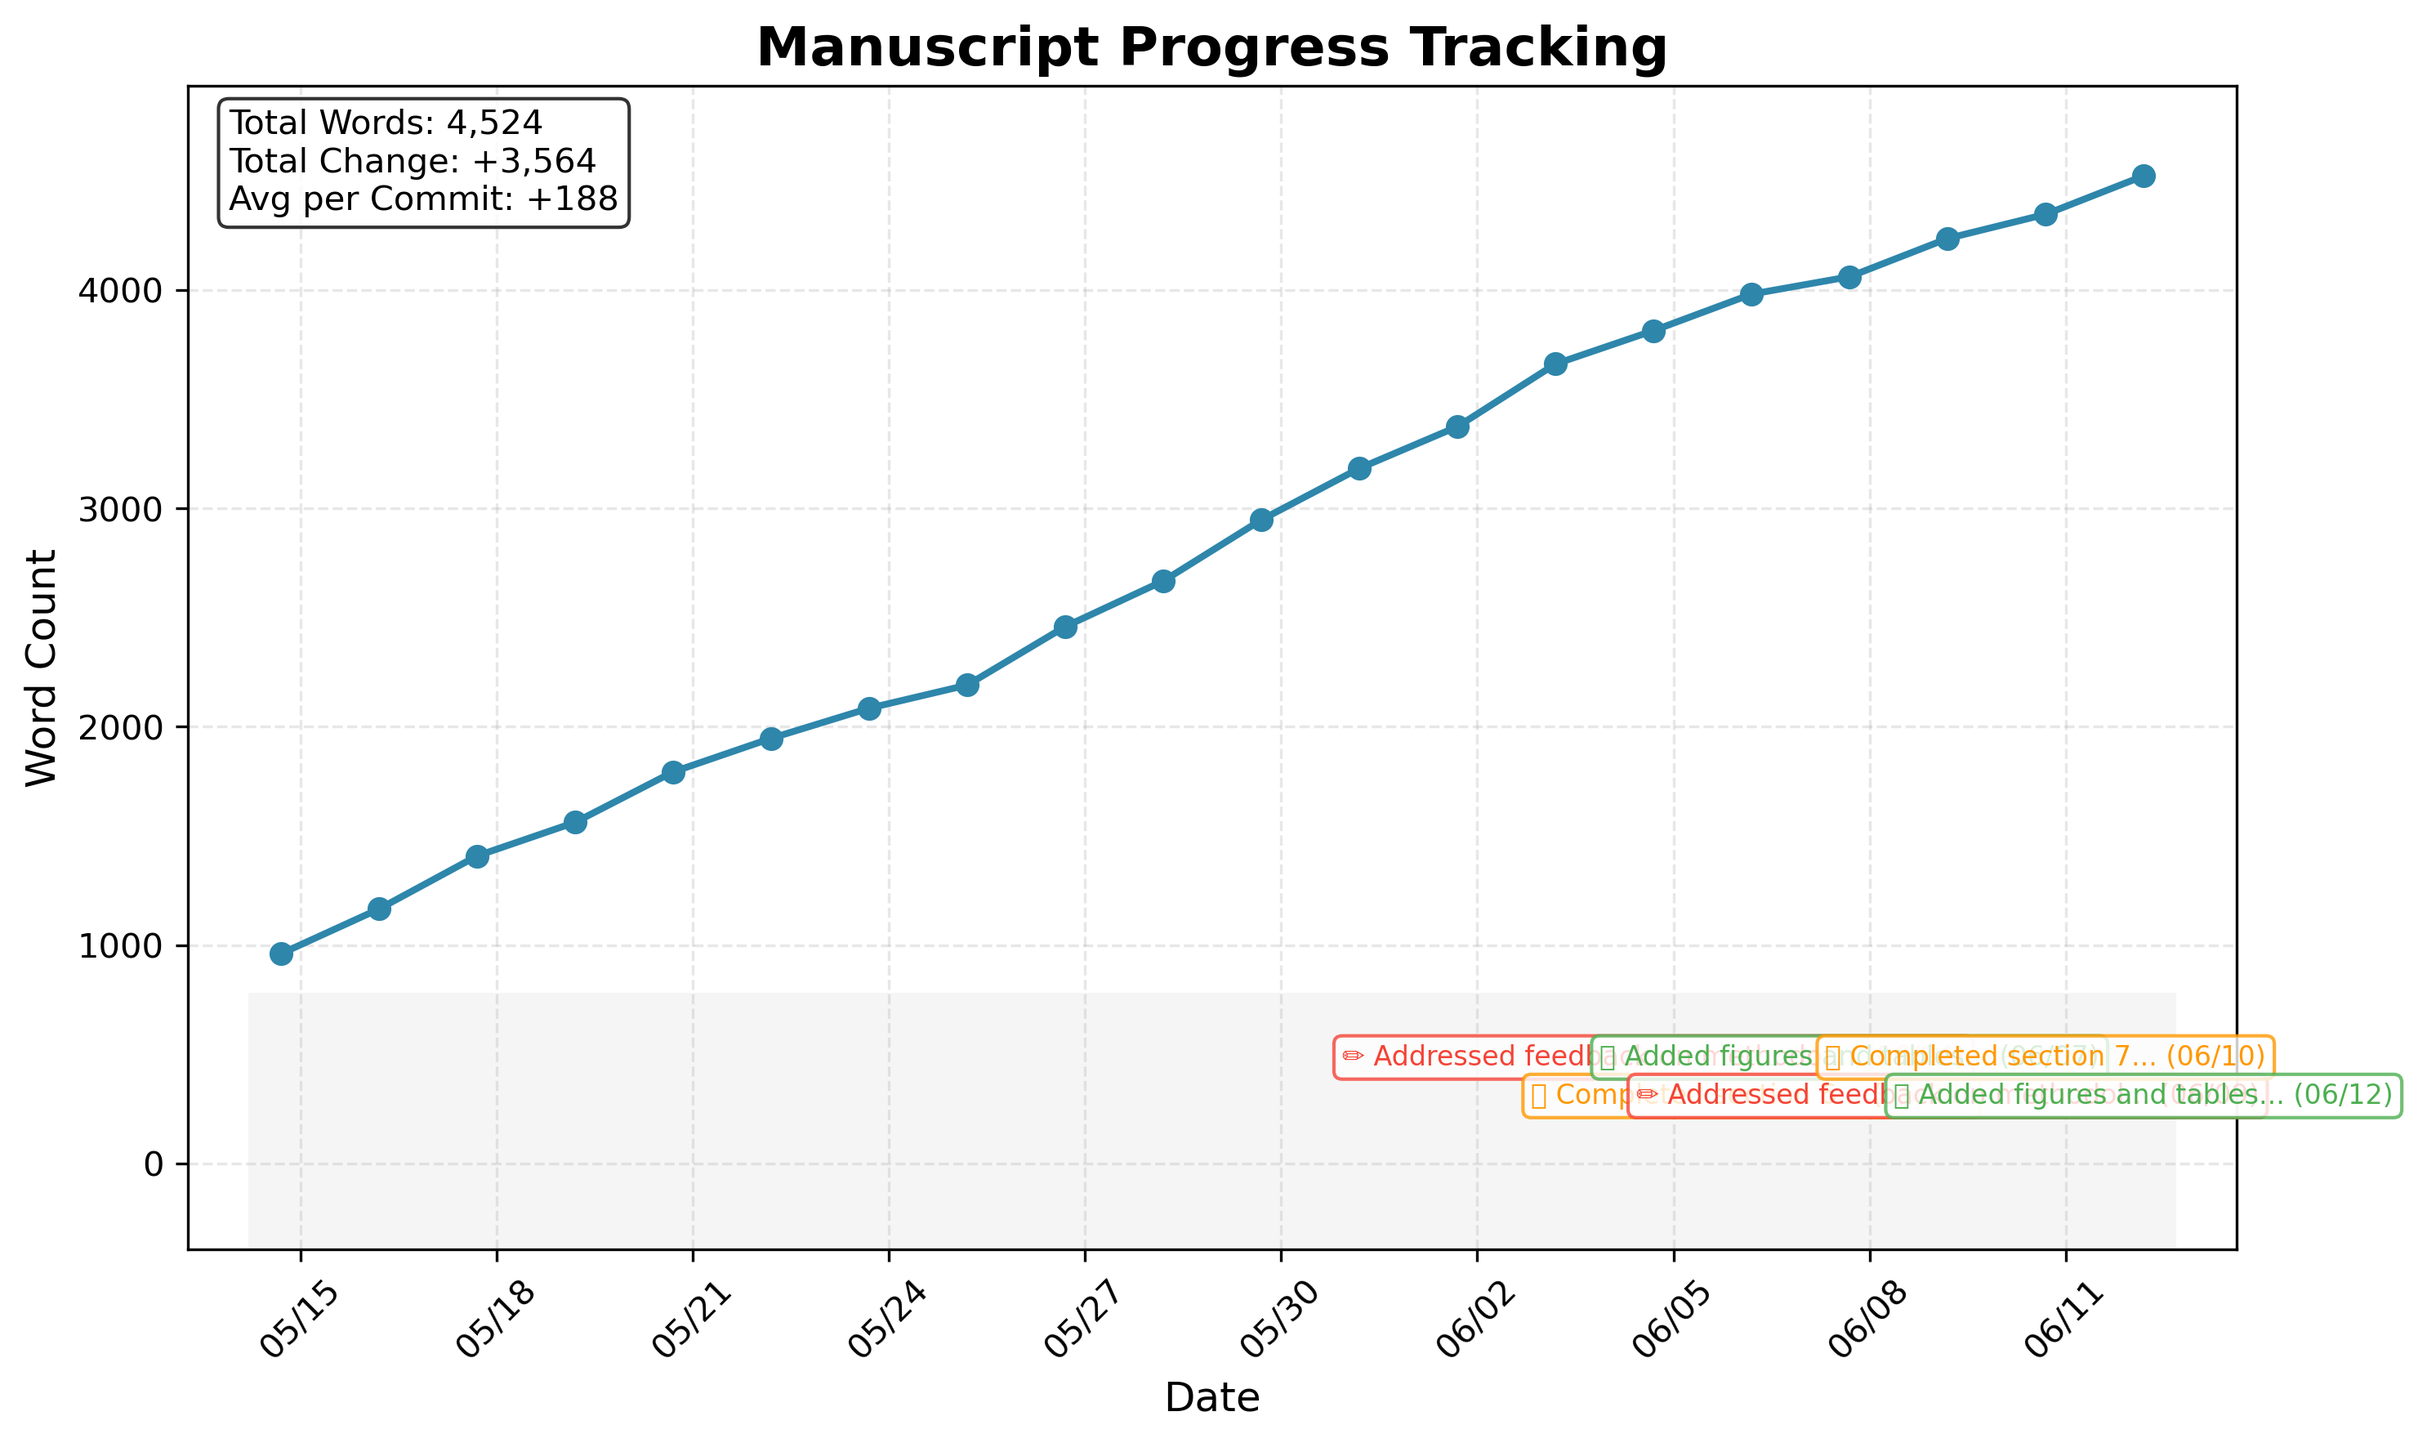
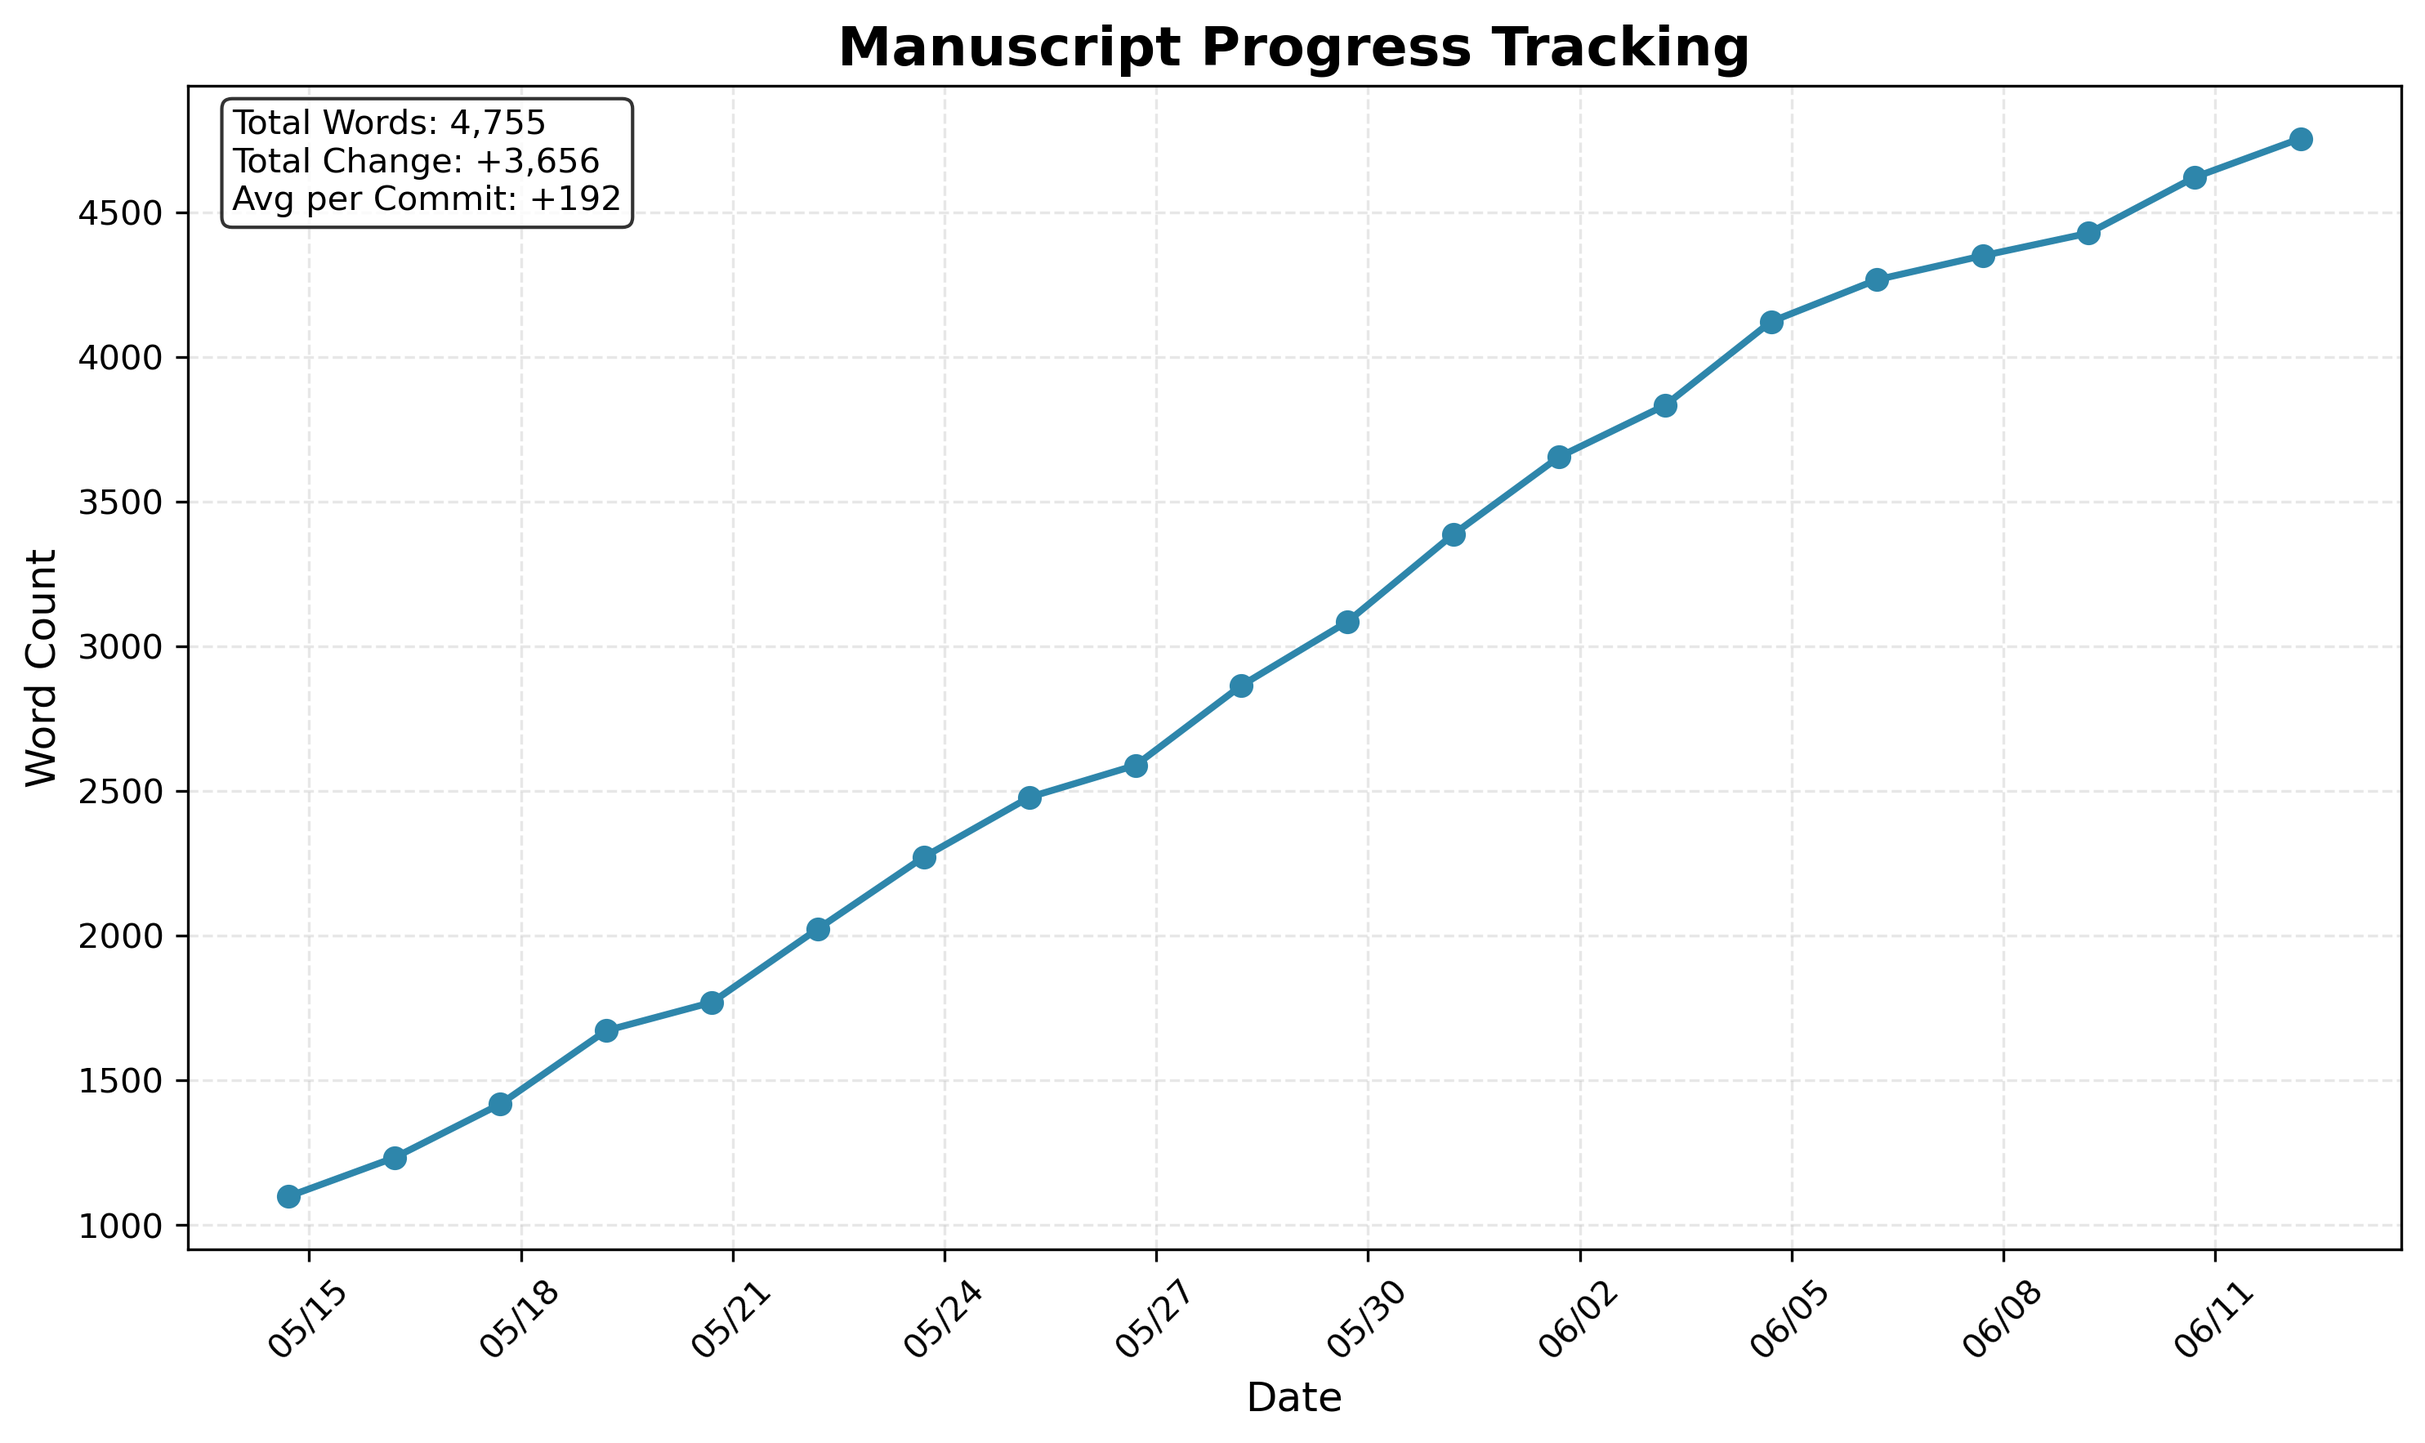
update aesthetics

diff --git a/scripts/generate_example.py b/scripts/generate_example.py
@@ -1,11 +1,10 @@
 #!/usr/bin/env python3
 """
-Generate an example progress plot for documentation.
+Generate an example progress plot and bullet points for documentation.
 """
 
 import matplotlib.pyplot as plt
 import matplotlib.dates as mdates
-from matplotlib.patches import Rectangle
 import numpy as np
 from datetime import datetime, timedelta
 import json
@@ -37,31 +36,65 @@ def generate_example_data():
         
         word_counts.append(words)
         
-        # Generate commit messages
-        if i % 3 == 0:
-            commits.append({
-                'date': date.isoformat(),
-                'message': f"Milestone: Completed section {i//3 + 1}",
-                'hash': f"abc{i:04d}"
-            })
-        elif i % 3 == 1:
-            commits.append({
-                'date': date.isoformat(),
-                'message': f"Notes: Added figures and tables",
-                'hash': f"def{i:04d}"
-            })
-        else:
-            commits.append({
-                'date': date.isoformat(),
-                'message': f"Revisions: Addressed feedback on methodology",
-                'hash': f"ghi{i:04d}"
-            })
+        # Generate varied commit messages
+        messages = [
+            "Notes: Added introduction and background",
+            "Milestone: Completed literature review", 
+            "Progress: Wrote methodology section",
+            "Notes: Added experimental setup figures",
+            "Revisions: Addressed reviewer comments on theory",
+            "Fix: Corrected equations in section 3",
+            "Reference: Added recent citations",
+            "Progress: Finished results analysis",
+            "Milestone: Completed first draft",
+            "Notes: Added discussion section",
+            "Revisions: Updated abstract and conclusions",
+            "Fix: Corrected table formatting",
+            "Progress: Added appendix materials",
+            "Notes: Improved figure captions",
+            "Milestone: Submitted for review"
+        ]
+        
+        commits.append({
+            'date': date.isoformat(),
+            'message': messages[i % len(messages)],
+            'hash': f"abc{i:04d}"
+        })
     
     return dates, word_counts, commits
 
 
+def generate_example_bullets(commits):
+    """Generate example bullet points for documentation."""
+    categories = {
+        "Notes": {"icon": "📝", "color": "#4CAF50"},
+        "Milestone": {"icon": "🎯", "color": "#FF9800"},
+        "Revisions": {"icon": "✏", "color": "#F44336"},
+        "Progress": {"icon": "📈", "color": "#2196F3"},
+        "Fix": {"icon": "🔧", "color": "#9C27B0"},
+        "Reference": {"icon": "📚", "color": "#795548"},
+        "Other": {"icon": "•", "color": "#607D8B"}
+    }
+    
+    bullets = ["### Recent Progress", ""]
+    
+    # Show last 8 commits
+    for commit in commits[-8:]:
+        category = commit['message'].split(':')[0]
+        message = commit['message'].split(':', 1)[1].strip()
+        
+        cat_info = categories.get(category, categories['Other'])
+        commit_date = datetime.fromisoformat(commit['date'])
+        date_str = commit_date.strftime('%m/%d/%Y')
+        
+        bullet = f"- {cat_info['icon']} **{category}**: {message} _{date_str}_"
+        bullets.append(bullet)
+    
+    return "\n".join(bullets)
+
+
 def create_example_plot():
-    """Create an example progress plot."""
+    """Create a clean example progress plot."""
     dates, word_counts, commits = generate_example_data()
     
     # Setup plot
@@ -102,53 +135,7 @@ def create_example_plot():
             verticalalignment='top',
             fontsize=10)
     
-    # Add annotations area
-    y_min, y_max = ax.get_ylim()
-    annotation_height = (y_max - y_min) * 0.3
-    annotation_y_start = y_min - annotation_height
-    
-    ax.set_ylim(annotation_y_start, y_max * 1.05)
-    
-    # Add annotation background
-    ax.add_patch(Rectangle((mdates.date2num(dates[0]) - 0.5, annotation_y_start),
-                          mdates.date2num(dates[-1]) - mdates.date2num(dates[0]) + 1,
-                          annotation_height,
-                          facecolor='#f5f5f5',
-                          edgecolor='none',
-                          zorder=0))
-    
-    # Categories
-    categories = {
-        "Notes": {"icon": "📝", "color": "#4CAF50"},
-        "Milestone": {"icon": "🎯", "color": "#FF9800"},
-        "Revisions": {"icon": "✏", "color": "#F44336"}
-    }
-    
-    # Add some example annotations
-    annotation_y = annotation_y_start + annotation_height * 0.8
-    
-    for i, commit in enumerate(commits[-6:]):  # Show last 6 commits
-        category = commit['message'].split(':')[0]
-        message = commit['message'].split(':', 1)[1].strip()
-        
-        cat_info = categories.get(category, {"icon": "•", "color": "#607D8B"})
-        commit_date = datetime.fromisoformat(commit['date'])
-        
-        annotation_text = f"{cat_info['icon']} {message[:30]}..."
-        date_text = commit_date.strftime('%m/%d')
-        
-        y_pos = annotation_y - (i % 2) * annotation_height * 0.15
-        
-        ax.text(mdates.date2num(commit_date), y_pos,
-               f"{annotation_text} ({date_text})",
-               fontsize=8,
-               color=cat_info['color'],
-               ha='center',
-               va='top',
-               bbox=dict(boxstyle='round,pad=0.3', 
-                       facecolor='white', 
-                       edgecolor=cat_info['color'],
-                       alpha=0.8))
+    # Clean plot without annotations on the figure
     
     # Adjust layout and save
     plt.tight_layout()
@@ -156,6 +143,20 @@ def create_example_plot():
     plt.close()
     
     print("Example plot saved to docs/example_plot.png")
+    
+    # Generate and save example bullet points
+    bullets = generate_example_bullets(commits)
+    with open('../docs/example_bullets.md', 'w') as f:
+        f.write(f"""# Example Progress Section
+
+![Progress Tracking](example_plot.png)
+
+{bullets}
+
+*Last updated: {datetime.now().strftime('%Y-%m-%d %H:%M:%S')} UTC*
+""")
+    
+    print("Example bullet points saved to docs/example_bullets.md")
 
 
 if __name__ == '__main__':

diff --git a/scripts/track_progress.py b/scripts/track_progress.py
@@ -11,7 +11,6 @@ from datetime import datetime
 from pathlib import Path
 import matplotlib.pyplot as plt
 import matplotlib.dates as mdates
-from matplotlib.patches import Rectangle
 import numpy as np
 import re
 
@@ -153,7 +152,6 @@ def load_config(repo_path):
         "plot_style": {
             "figure_size": [10, 6],
             "line_color": "#2E86AB",
-            "annotation_height": 2,
             "categories": {
                 "Notes": {"icon": "📝", "color": "#4CAF50"},
                 "Milestone": {"icon": "🎯", "color": "#FF9800"},
@@ -169,7 +167,7 @@ def load_config(repo_path):
 
 
 def create_progress_plot(data, config, output_file):
-    """Create the progress plot with annotations."""
+    """Create a clean progress plot showing word count over time."""
     if not data['word_counts']:
         print("No data to plot yet")
         return
@@ -220,59 +218,7 @@ def create_progress_plot(data, config, output_file):
                 verticalalignment='top',
                 fontsize=10)
     
-    # Add commit annotations
-    if data.get('commits'):
-        # Group commits by category
-        categories = config['plot_style']['categories']
-        
-        # Calculate annotation area height
-        y_min, y_max = ax.get_ylim()
-        annotation_height = (y_max - y_min) * 0.3
-        annotation_y_start = y_min - annotation_height
-        
-        # Extend y-axis to accommodate annotations
-        ax.set_ylim(annotation_y_start, y_max * 1.05)
-        
-        # Add annotation background
-        ax.add_patch(Rectangle((mdates.date2num(dates[0]) - 0.5, annotation_y_start),
-                              mdates.date2num(dates[-1]) - mdates.date2num(dates[0]) + 1,
-                              annotation_height,
-                              facecolor='#f5f5f5',
-                              edgecolor='none',
-                              zorder=0))
-        
-        # Add annotations
-        annotation_y = annotation_y_start + annotation_height * 0.8
-        line_height = annotation_height * 0.15
-        
-        for i, commit in enumerate(data['commits'][-10:]):  # Show last 10 commits
-            category, message = parse_commit_category(commit['message'])
-            
-            # Skip automated commits
-            if '[skip ci]' in message or 'Update progress tracking' in message:
-                continue
-            
-            cat_info = categories.get(category, categories['Other'])
-            commit_date = datetime.fromisoformat(commit['date'].replace('Z', '+00:00'))
-            
-            # Format annotation text
-            annotation_text = f"{cat_info['icon']} {message[:50]}{'...' if len(message) > 50 else ''}"
-            date_text = commit_date.strftime('%m/%d')
-            
-            # Calculate y position (stagger annotations)
-            y_pos = annotation_y - (i % 3) * line_height
-            
-            # Add annotation
-            ax.text(mdates.date2num(commit_date), y_pos,
-                   f"{annotation_text} ({date_text})",
-                   fontsize=8,
-                   color=cat_info['color'],
-                   ha='center',
-                   va='top',
-                   bbox=dict(boxstyle='round,pad=0.3', 
-                           facecolor='white', 
-                           edgecolor=cat_info['color'],
-                           alpha=0.8))
+    # Clean plot without annotations on the figure
     
     # Adjust layout and save
     plt.tight_layout()
@@ -282,8 +228,43 @@ def create_progress_plot(data, config, output_file):
     print(f"Progress plot saved to {output_file}")
 
 
-def update_readme(repo_path, plot_file):
-    """Update README.md with the progress plot."""
+def generate_commit_bullets(data, config, max_commits=10):
+    """Generate bullet points for recent commits."""
+    if not data.get('commits'):
+        return ""
+    
+    categories = config['plot_style']['categories']
+    bullets = []
+    
+    # Get recent commits (excluding automated ones)
+    recent_commits = []
+    for commit in reversed(data['commits'][-max_commits:]):
+        if '[skip ci]' not in commit['message'] and 'Update progress tracking' not in commit['message']:
+            recent_commits.append(commit)
+    
+    if not recent_commits:
+        return ""
+    
+    bullets.append("### Recent Progress")
+    bullets.append("")
+    
+    for commit in recent_commits[-10:]:  # Show last 10 non-automated commits
+        category, message = parse_commit_category(commit['message'])
+        cat_info = categories.get(category, categories['Other'])
+        
+        # Format commit date
+        commit_date = datetime.fromisoformat(commit['date'].replace('Z', '+00:00'))
+        date_str = commit_date.strftime('%m/%d/%Y')
+        
+        # Create bullet point
+        bullet = f"- {cat_info['icon']} **{category}**: {message} _{date_str}_"
+        bullets.append(bullet)
+    
+    return "\n".join(bullets) + "\n"
+
+
+def update_readme(repo_path, plot_file, data, config):
+    """Update README.md with the progress plot and commit bullets."""
     readme_path = Path(repo_path) / 'README.md'
     
     # Read existing README
@@ -297,11 +278,16 @@ def update_readme(repo_path, plot_file):
     start_marker = "<!-- PROGRESS-TRACKER-START -->"
     end_marker = "<!-- PROGRESS-TRACKER-END -->"
     
+    # Generate bullet points for recent commits
+    bullet_points = generate_commit_bullets(data, config)
+    
     progress_section = f"""
 {start_marker}
 ## 📊 Manuscript Progress
 
 ![Progress Tracking]({plot_file.name})
+
+{bullet_points}
 
 *Last updated: {datetime.now().strftime('%Y-%m-%d %H:%M:%S')} UTC*
 {end_marker}
@@ -377,7 +363,7 @@ def main():
     create_progress_plot(data, config, plot_file)
     
     # Update README
-    update_readme(repo_path, plot_file)
+    update_readme(repo_path, plot_file, data, config)
 
 
 if __name__ == '__main__':

diff --git a/setup.py b/setup.py
@@ -87,7 +87,6 @@ def setup(repo_path):
         "plot_style": {
             "figure_size": [10, 6],
             "line_color": "#2E86AB",
-            "annotation_height": 2,
             "categories": {
                 "Notes": {"icon": "📝", "color": "#4CAF50"},
                 "Milestone": {"icon": "🎯", "color": "#FF9800"},

diff --git a/docs/example_bullets.md b/docs/example_bullets.md
@@ -1,0 +1,16 @@
+# Example Progress Section
+
+![Progress Tracking](example_plot.png)
+
+### Recent Progress
+
+- 📈 **Progress**: Added appendix materials _06/01/2025_
+- 📝 **Notes**: Improved figure captions _06/03/2025_
+- 🎯 **Milestone**: Submitted for review _06/04/2025_
+- 📝 **Notes**: Added introduction and background _06/06/2025_
+- 🎯 **Milestone**: Completed literature review _06/07/2025_
+- 📈 **Progress**: Wrote methodology section _06/09/2025_
+- 📝 **Notes**: Added experimental setup figures _06/10/2025_
+- ✏ **Revisions**: Addressed reviewer comments on theory _06/12/2025_
+
+*Last updated: 2025-06-13 16:57:58 UTC*
